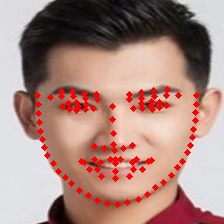
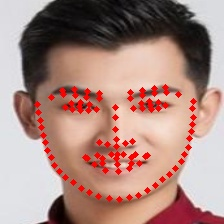
updated 2022.06.13

Changed region(s): [[0.1562, 0.375, 0.6875, 0.8125], [0.2812, 0.4062, 0.9062, 0.9375], [0.5625, 0.375, 0.8125, 0.5]]

diff --git a/source/facial_landmark/train.py b/source/facial_landmark/train.py
@@ -73,13 +73,11 @@ def get_tf_data(images, keypoints, is_train):
 
     return dataset
 
-def custom_wing_loss(w=10.0, epsilon=2.0):
+def custom_wing_loss(w=15.0, epsilon=3.0):
     def wing_loss(y_true, y_pred):
-        x = y_true - y_pred
-        c = w * (1.0 - tf.math.log(1.0 + w / epsilon))
-        absolute_x = tf.abs(x)
-        losses = tf.where(tf.greater(w, absolute_x), w * tf.math.log(1.0 + absolute_x / epsilon), absolute_x - c)
-        loss = tf.reduce_mean(tf.reduce_sum(losses, axis=[1, 2]), axis=0)
+        t = tf.abs(y_true - y_pred)
+        c = w - w * tf.math.log(1 + w / epsilon)
+        loss = tf.reduce_mean(tf.where(t < w, w * tf.math.log(1 + t / epsilon), t - c))
 
         return loss
     return wing_loss
@@ -139,7 +137,7 @@ if __name__ == "__main__":
 
     EPOCHS = 300
     BATCH_SIZE = 256
-    IMG_SIZE = 256
+    IMG_SIZE = 224
     KEYPOINTS = 98 * 2
     SAVE_DIR = "/home/ubuntu/Models/facial_landmark"
 
@@ -159,10 +157,11 @@ if __name__ == "__main__":
     test_steps_per_epoch = int(tf.math.ceil(len(test_image_files) / BATCH_SIZE).numpy())
 
     callbacks = [DisplayCallback(),
-                 tf.keras.callbacks.ModelCheckpoint(f"{SAVE_DIR}/best.ckpt", monitor="val_loss", verbose=1, mode="min", save_weights_only=True)]
+                 tf.keras.callbacks.EarlyStopping(monitor="val_loss", patience=10, verbose=1),
+                 tf.keras.callbacks.ModelCheckpoint(f"{SAVE_DIR}/best.ckpt", monitor="val_loss", verbose=1, mode="min", save_best_only=True, save_weights_only=True)]
 
     model = build_model()
-    model.compile(optimizer = tf.keras.optimizers.Adam(learning_rate=0.001), loss = custom_wing_loss()) # tf.keras.losses.MeanSquaredError()
+    model.compile(optimizer = tf.keras.optimizers.Adam(learning_rate=0.0001), loss = custom_wing_loss()) # tf.keras.losses.MeanSquaredError(), custom_wing_loss()
 
     history = model.fit(
         train_dataset,

diff --git a/source/facial_landmark/inference.py b/source/facial_landmark/inference.py
@@ -1,0 +1,47 @@
+import os
+os.environ['TF_CPP_MIN_LOG_LEVEL'] = '3'
+import cv2
+import numpy as np
+import tensorflow as tf
+from glob import glob
+
+def build_model():
+    base_model = tf.keras.applications.ResNet50(input_shape=(img_size, img_size, 3), include_top=False, weights="imagenet")    
+    base_model.trainable = True
+
+    input_layer = tf.keras.Input(shape=(img_size, img_size, 3))
+    x = tf.keras.applications.resnet50.preprocess_input(input_layer)
+    x = base_model(x)
+    x = tf.keras.layers.Dropout(0.3)(x)
+    x = tf.keras.layers.SeparableConv2D(keypoints, kernel_size=5, strides=1, activation="relu")(x)
+    output_layer = tf.keras.layers.SeparableConv2D(keypoints, kernel_size=3, strides=1, activation="sigmoid")(x)
+
+    model = tf.keras.Model(inputs=input_layer, outputs=output_layer)
+    model.summary()
+
+    return model
+
+if __name__ == "__main__":
+    img_size = 224
+    keypoints = 98 * 2
+
+    model = build_model()
+    model.load_weights("/home/ubuntu/Models/facial_landmark/best.ckpt")
+    print("model ckpt loaded")
+
+    if not os.path.isdir("./inference"):
+        os.makedirs("./inference")
+
+    test_dir = sorted(glob("/home/ubuntu/Datasets/WFLW/test/images/*"))
+    for idx, test_file in enumerate(test_dir[:10]):
+        image = cv2.imread(test_file)
+        result_image = image.copy()
+        image = cv2.resize(image, (img_size, img_size))
+
+        predictions = model.predict(np.expand_dims(image, axis=0), verbose=0)
+        predictions = predictions.reshape(-1, 98, 2) * img_size
+
+        for (x, y) in predictions[0]:
+            cv2.circle(result_image, (int(x), int(y)), radius=1, color=(0, 0, 255), thickness=3)
+
+        cv2.imwrite(f"./inference/{idx}.jpg", result_image)

diff --git a/source/facial_landmark/WFLW_data.py b/source/facial_landmark/WFLW_data.py
@@ -145,7 +145,7 @@ def read_data(annotations, save_dir=None, is_train=False):
         image = cv2.imread(f"{image_dir}/{tmp[206]}")
         
         if is_train:
-            for step in range(5):
+            for step in range(30):
                 make_train_data(image, bboxes, keypoints, idx, step, save_dir)
 
         else:
@@ -153,7 +153,7 @@ def read_data(annotations, save_dir=None, is_train=False):
 
 
 if __name__ == "__main__":
-    IMG_SIZE = 256
+    IMG_SIZE = 224
     VISUALIZE = False
     image_dir = "/home/ubuntu/Datasets/WFLW/WFLW_images"
     
@@ -161,7 +161,7 @@ if __name__ == "__main__":
     test_annotation_dir = "/home/ubuntu/Datasets/WFLW/WFLW_annotations/list_98pt_rect_attr_train_test/list_98pt_rect_attr_test.txt"
 
     train_annotation = read_annotations(train_annotation_dir)
-    read_data(train_annotation, save_dir="/home/ubuntu/Datasets/WFLW/train", is_train=True)
+    read_data(train_annotation, save_dir="/home/ubuntu/Datasets/WFLW/train", is_train=False)
 
     test_annotation = read_annotations(test_annotation_dir)
     read_data(test_annotation, save_dir="/home/ubuntu/Datasets/WFLW/test", is_train=False)
